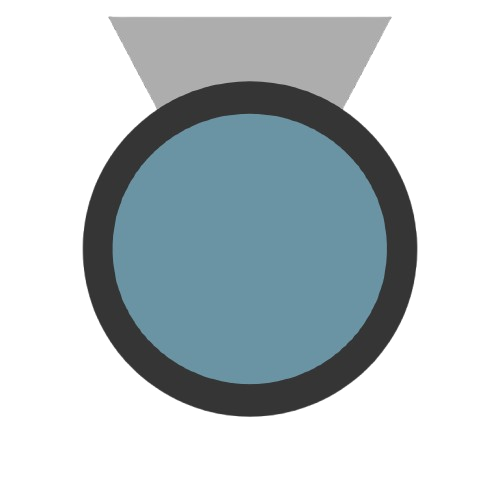
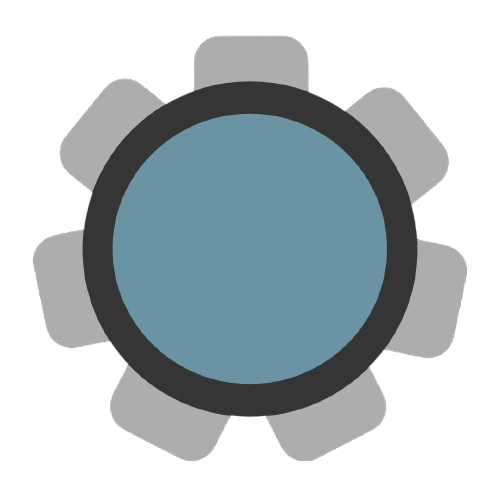
Add files via upload

diff --git a/script.js b/script.js
@@ -772,6 +772,19 @@ var dropletData = {
         image: "./tanks/basic3.png",
         shadowColor: "#575757"
     },
+    "basic4":{ // TODO MULTISHOOT
+        name: "Escopeta Corredera Angular",
+        iShoot: 1500, // in ms
+        damage: 10,
+        numBalls: 3,
+        speed: 10,
+        rangeB: 45,
+        size: 13,
+        centerBalls: 1, // just useful if numBalls > 1
+        angularDivision: 40, // just useful if numBalls > 1 and centerBalls < numBalls
+        image: "./tanks/basic4.png",
+        shadowColor: "#575757"
+    },
     "rare1":{
         name: "Pistola Centinela de Corta Distáncia",
         iShoot: 750, // in ms
@@ -785,16 +798,16 @@ var dropletData = {
         image: "./tanks/rare1.png",
         shadowColor: "#6a94a4"
     },
-    "rare2":{ // TODO MULTISHOOT
-        name: "Escopeta Corredera Angular",
+    "rare2":{
+        name: "Repulsor Táctico",
         iShoot: 1500, // in ms
-        damage: 15,
-        numBalls: 3,
+        damage: 8,
+        numBalls: 7,
         speed: 10,
-        rangeB: 45,
-        size: 13,
+        rangeB: 70,
+        size: 10,
         centerBalls: 1, // just useful if numBalls > 1
-        angularDivision: 40, // just useful if numBalls > 1 and centerBalls < numBalls
+        angularDivision: 204, // just useful if numBalls > 1 and centerBalls < numBalls
         image: "./tanks/rare2.png",
         shadowColor: "#6a94a4"
     },
@@ -855,7 +868,7 @@ var dropletData = {
         iShoot: 500, // in ms
         damage: 40,
         numBalls: 1,
-        speed: 17,
+        speed: 16,
         rangeB: 40,
         size: 13,
         centerBalls: 0, // just useful if numBalls > 1
@@ -892,7 +905,7 @@ var dropletData = {
 }
 
 var numTanksByType = {
-    "basic":3,
+    "basic":4,
     "rare":3,
     "epic":3,
     "legendary":3
